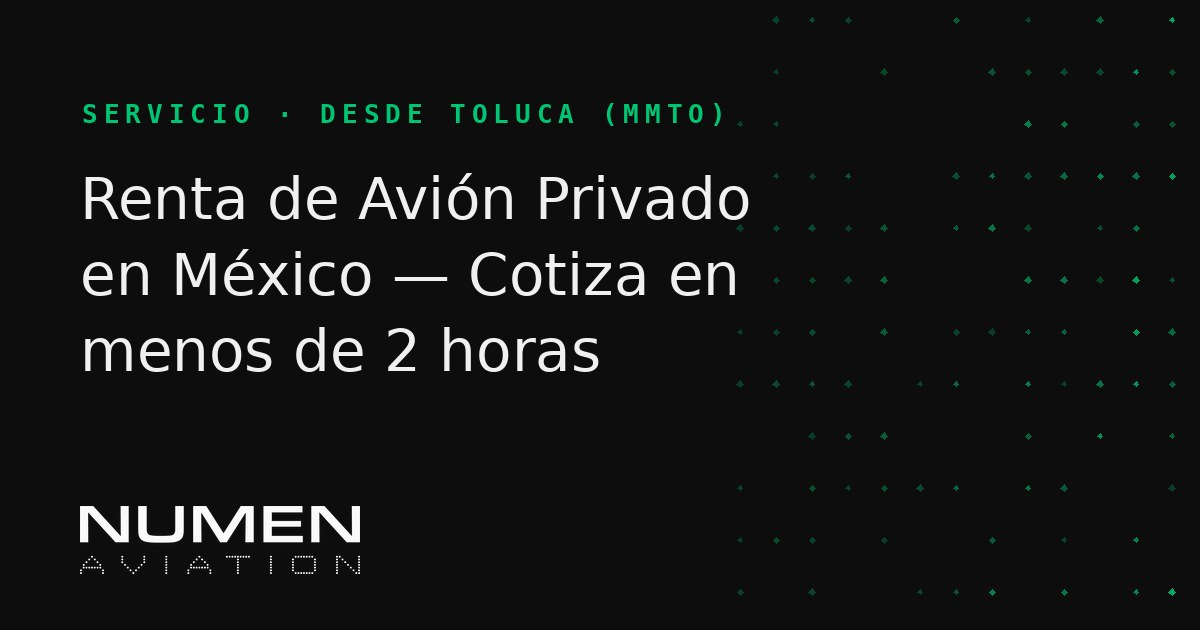
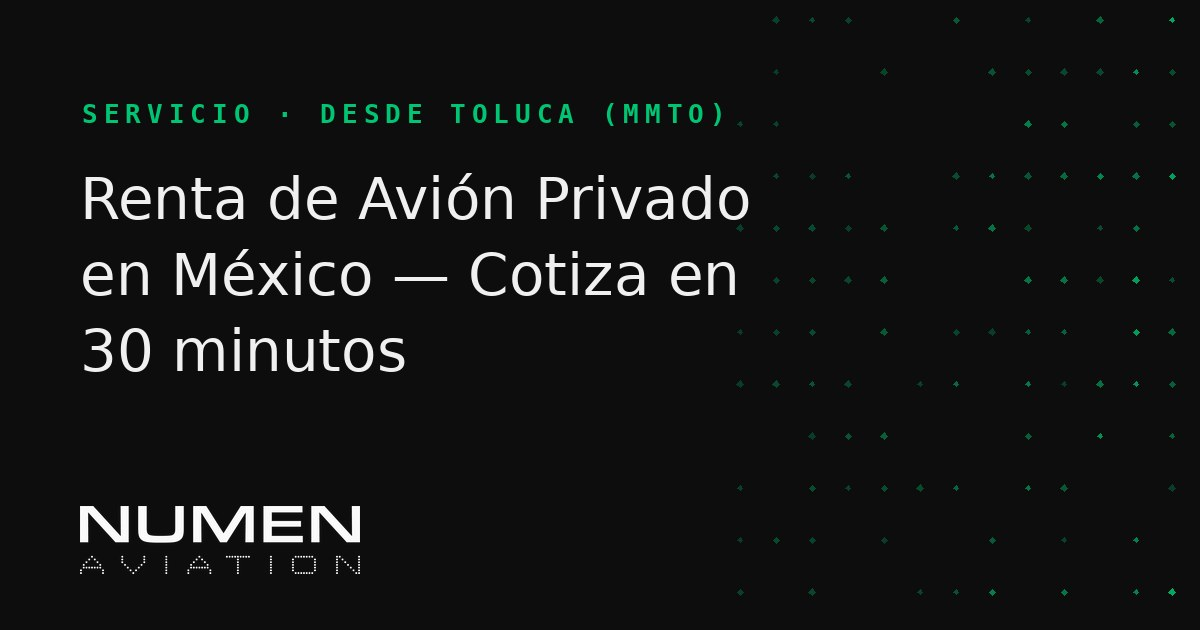
Landing renta de avión privado: cotización 30 min (antes 2h) + urgency strip y sticky CTA móvil WhatsApp/llamada

Changed region(s): [[0.0617, 0.5127, 0.4933, 0.6032]]

diff --git a/src/pages/RentaAvionPrivado.tsx b/src/pages/RentaAvionPrivado.tsx
@@ -33,7 +33,7 @@ const RentaAvionPrivado = () => {
         },
         {
           q: "¿Con cuánta anticipación debo reservar?",
-          a: "Lo ideal es reservar con 24 a 48 horas de anticipación. En casos urgentes podemos activar un vuelo el mismo día, sujeto a disponibilidad de aeronave y permisos. Nuestra cotización llega en menos de 2 horas, 24/7.",
+          a: "Lo ideal es reservar con 24 a 48 horas de anticipación. En casos urgentes podemos activar un vuelo el mismo día, sujeto a disponibilidad de aeronave y permisos. Nuestra cotización llega en 30 minutos, 24/7.",
         },
         {
           q: "¿De qué aeropuerto salen los vuelos?",
@@ -55,7 +55,7 @@ const RentaAvionPrivado = () => {
         },
         {
           q: "How far in advance should I book?",
-          a: "Ideally 24 to 48 hours in advance. For urgent cases we can activate a same-day flight, subject to aircraft availability and clearances. Our quote arrives in under 2 hours, 24/7.",
+          a: "Ideally 24 to 48 hours in advance. For urgent cases we can activate a same-day flight, subject to aircraft availability and clearances. Our quote arrives in 30 minutes, 24/7.",
         },
         {
           q: "Which airport do flights depart from?",
@@ -69,11 +69,11 @@ const RentaAvionPrivado = () => {
 
   const seo = useSEO({
     title: isEs
-      ? "Renta de Avión Privado en México — Cotiza en 2 Horas | Numen Aviation"
-      : "Private Aircraft Charter in Mexico — Quote in 2 Hours | Numen Aviation",
+      ? "Renta de Avión Privado en México — Cotiza en 30 Min | Numen Aviation"
+      : "Private Aircraft Charter in Mexico — Quote in 30 Min | Numen Aviation",
     description: isEs
-      ? "Renta de aviones privados desde Toluca (MMTO) a todo México, EUA, Caribe y Centroamérica. Turbohélices, Learjet, Hawker y jets de largo alcance. Precios desde $5,950 USD one-way. Cotización en menos de 2 horas, 24/7."
-      : "Private aircraft charter from Toluca (MMTO) to Mexico, the USA, the Caribbean and Central America. Turboprops, Learjet, Hawker and long-range jets. Prices from $5,950 USD one-way. Quote in under 2 hours, 24/7.",
+      ? "Renta de aviones privados desde Toluca (MMTO) a todo México, EUA, Caribe y Centroamérica. Turbohélices, Learjet, Hawker y jets de largo alcance. Precios desde $5,950 USD one-way. Cotización en 30 minutos, 24/7."
+      : "Private aircraft charter from Toluca (MMTO) to Mexico, the USA, the Caribbean and Central America. Turboprops, Learjet, Hawker and long-range jets. Prices from $5,950 USD one-way. Quote in 30 minutes, 24/7.",
     path: PATH,
     image: `${SITE_URL}/og-renta-de-avion-privado.jpg`,
     jsonLd: [
@@ -125,7 +125,7 @@ const RentaAvionPrivado = () => {
   });
 
   const STATS = [
-    { val: "< 2 hrs", lbl: isEs ? "Tiempo de Cotización" : "Quote Turnaround" },
+    { val: "30 min", lbl: isEs ? "Tiempo de Cotización" : "Quote Turnaround" },
     { val: "24 / 7", lbl: isEs ? "Operaciones" : "Operations" },
     { val: "MMTO", lbl: isEs ? "Base Exclusiva · Toluca" : "Exclusive Base · Toluca" },
     { val: "AFAC", lbl: isEs ? "Operadores Certificados" : "Certified Operators" },
@@ -185,7 +185,7 @@ const RentaAvionPrivado = () => {
     },
     {
       n: "02",
-      t: isEs ? "Recibe opciones en menos de 2 horas" : "Get options in under 2 hours",
+      t: isEs ? "Recibe opciones en 30 minutos" : "Get options in 30 minutes",
       d: isEs
         ? "Comparamos operadores certificados por AFAC y te presentamos las mejores aeronaves con precio cerrado — sin sesgo de flota propia."
         : "We compare AFAC-certified operators and present the best aircraft at a firm price — no fleet bias.",
@@ -216,10 +216,10 @@ const RentaAvionPrivado = () => {
     },
     {
       Icon: Clock,
-      t: isEs ? "Respuesta en menos de 2 horas" : "Response in under 2 hours",
+      t: isEs ? "Respuesta en 30 minutos" : "Response in 30 minutes",
       d: isEs
-        ? "Cotización formal con opciones de aeronave y precio cerrado en menos de 2 horas, cualquier día, a cualquier hora."
-        : "A formal quote with aircraft options and a firm price in under 2 hours, any day, any time.",
+        ? "Cotización formal con opciones de aeronave y precio cerrado en 30 minutos, cualquier día, a cualquier hora."
+        : "A formal quote with aircraft options and a firm price in 30 minutes, any day, any time.",
     },
   ];
 
@@ -301,8 +301,8 @@ const RentaAvionPrivado = () => {
         <div className="w-[60px] h-px bg-jade my-8" />
         <p className="text-[0.95rem] font-light leading-[1.7] text-fg-3 max-w-[560px] mb-10">
           {isEs
-            ? "Renta de aviones privados desde el Aeropuerto Internacional de Toluca (MMTO) a todo México, Estados Unidos, el Caribe y Centroamérica. Turbohélices, jets ligeros, medianos y de largo alcance — cotización a la medida en menos de 2 horas."
-            : "Private aircraft charter from Toluca International Airport (MMTO) to Mexico, the United States, the Caribbean and Central America. Turboprops, light, midsize and long-range jets — a tailor-made quote in under 2 hours."}
+            ? "Renta de aviones privados desde el Aeropuerto Internacional de Toluca (MMTO) a todo México, Estados Unidos, el Caribe y Centroamérica. Turbohélices, jets ligeros, medianos y de largo alcance — cotización a la medida en 30 minutos."
+            : "Private aircraft charter from Toluca International Airport (MMTO) to Mexico, the United States, the Caribbean and Central America. Turboprops, light, midsize and long-range jets — a tailor-made quote in 30 minutes."}
         </p>
         <div className="flex gap-4 flex-wrap">
           <a
@@ -323,6 +323,41 @@ const RentaAvionPrivado = () => {
           </a>
         </div>
       </section>
+
+      {/* URGENCY STRIP — contacto inmediato para tráfico de Google */}
+      <div
+        className="bg-jade/10 border-y border-jade/40"
+        style={{ padding: "1rem clamp(1.5rem, 4vw, 4rem)" }}
+      >
+        <div className="flex flex-wrap items-center gap-x-6 gap-y-2 justify-center text-center">
+          <span className="text-[0.7rem] uppercase text-jade-light font-medium" style={{ letterSpacing: "0.2em" }}>
+            {isEs ? "Cotización en 30 Minutos" : "Quote in 30 Minutes"}
+          </span>
+          <span className="text-jade/40 hidden md:inline">·</span>
+          <a
+            href={waLink(isEs ? WA_TEXT_ES : WA_TEXT_EN)}
+            target="_blank"
+            rel="noopener noreferrer"
+            className="text-[0.7rem] uppercase text-jade-light font-medium hover:text-foreground transition-colors underline underline-offset-4"
+            style={{ letterSpacing: "0.2em" }}
+          >
+            {isEs ? "WhatsApp Directo" : "Direct WhatsApp"}
+          </a>
+          <span className="text-jade/40 hidden md:inline">·</span>
+          <a
+            href={`tel:${PHONE_TEL}`}
+            className="inline-flex items-center gap-1.5 text-[0.7rem] uppercase text-jade-light font-medium hover:text-foreground transition-colors"
+            style={{ letterSpacing: "0.2em" }}
+          >
+            <Phone className="w-3.5 h-3.5" />
+            {PHONE_NUMBER}
+          </a>
+          <span className="text-jade/40 hidden md:inline">·</span>
+          <span className="text-[0.7rem] uppercase text-jade-light font-medium" style={{ letterSpacing: "0.2em" }}>
+            24 / 7 · MMTO
+          </span>
+        </div>
+      </div>
 
       {/* STATS */}
       <div
@@ -563,8 +598,8 @@ const RentaAvionPrivado = () => {
         </h2>
         <p className="text-[0.9rem] text-fg-3 max-w-[540px] mx-auto leading-[1.7] mb-10">
           {isEs
-            ? "Cuéntanos tu ruta, fechas y pasajeros. Recibe opciones de aeronave con precio cerrado en menos de 2 horas."
-            : "Tell us your route, dates and passengers. Get aircraft options with a firm price in under 2 hours."}
+            ? "Cuéntanos tu ruta, fechas y pasajeros. Recibe opciones de aeronave con precio cerrado en 30 minutos."
+            : "Tell us your route, dates and passengers. Get aircraft options with a firm price in 30 minutes."}
         </p>
         <div className="flex flex-wrap gap-4 justify-center">
           <a
@@ -597,7 +632,36 @@ const RentaAvionPrivado = () => {
       </section>
 
       <Footer />
-      <WhatsAppFAB />
+      <div className="hidden md:block">
+        <WhatsAppFAB />
+      </div>
+
+      {/* STICKY MOBILE CTA — siempre visible para contacto en un tap */}
+      <div
+        className="fixed bottom-0 left-0 right-0 z-50 grid grid-cols-2 md:hidden border-t border-jade/50"
+        style={{ background: "hsl(var(--background) / 0.97)", paddingBottom: "env(safe-area-inset-bottom)" }}
+      >
+        <a
+          href={waLink(isEs ? WA_TEXT_ES : WA_TEXT_EN)}
+          target="_blank"
+          rel="noopener noreferrer"
+          className="flex items-center justify-center gap-2 bg-jade text-background py-4 text-[0.72rem] uppercase font-medium"
+          style={{ letterSpacing: "0.15em" }}
+        >
+          {isEs ? "WhatsApp" : "WhatsApp"}
+          <ArrowRight className="w-3.5 h-3.5" />
+        </a>
+        <a
+          href={`tel:${PHONE_TEL}`}
+          className="flex items-center justify-center gap-2 text-foreground py-4 text-[0.72rem] uppercase font-medium border-l border-jade/30"
+          style={{ letterSpacing: "0.15em" }}
+        >
+          <Phone className="w-3.5 h-3.5" />
+          {isEs ? "Llamar" : "Call"}
+        </a>
+      </div>
+      {/* Espacio para que la barra fija no tape el footer en móvil */}
+      <div className="h-14 md:hidden" />
     </div>
   );
 };